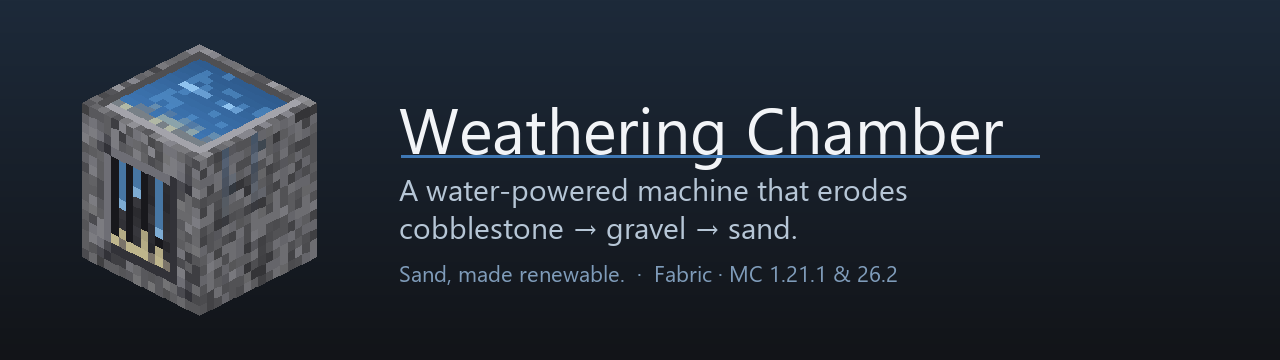
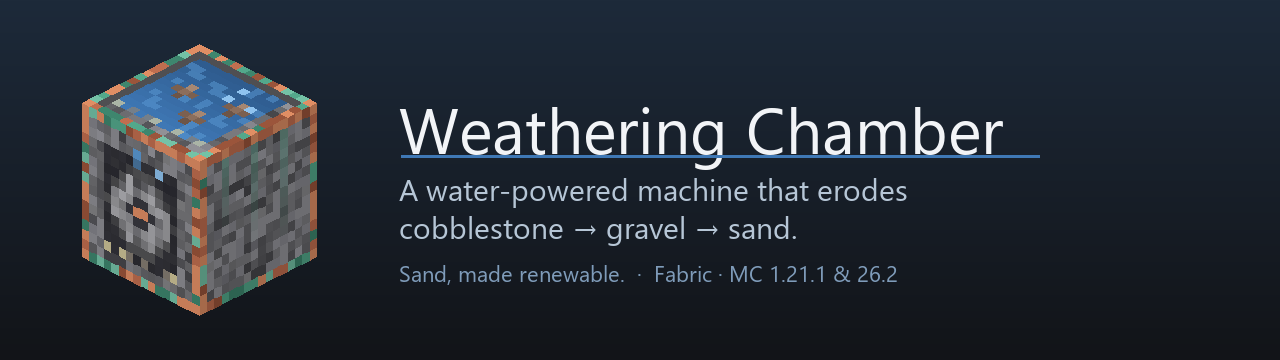
art: align block textures with the recipe ingredients
Retexture the block so each face echoes a crafting material:
- copper frame with verdigris (teal) oxidation on every face -> copper,
  and the literal "weathering" visual
- front aperture becomes a grinding wheel with a copper axle hub -> grindstone
- top water basin gains pointed-dripstone tips -> dripstone (erosion)
- weathered stone base -> cobblestone

Textures + block-containing previews regenerated from tools/generate_assets.py.

Changed region(s): [[0.0625, 0.1222, 0.25, 0.8861]]

diff --git a/tools/generate_assets.py b/tools/generate_assets.py
@@ -42,6 +42,17 @@ IRON = (0x53, 0x53, 0x5a)
 IRON_HI = (0x7d, 0x7d, 0x86)
 IRON_D = (0x39, 0x39, 0x40)
 DARK = (0x1c, 0x1c, 0x20)
+# Recipe-material accents: copper (fresh) weathering to verdigris (oxidised),
+# and dripstone brown. These tie the block to its crafting ingredients.
+COPPER = (0xc0, 0x6e, 0x4f)
+COPPER_D = (0x9b, 0x55, 0x3b)
+COPPER_HI = (0xe0, 0x8e, 0x64)
+VERD = (0x53, 0xa8, 0x8b)
+VERD_D = (0x3e, 0x86, 0x6e)
+VERD_HI = (0x74, 0xc2, 0xa6)
+DRIP = (0x8c, 0x6e, 0x5c)
+DRIP_D = (0x6e, 0x54, 0x45)
+DRIP_HI = (0xa6, 0x87, 0x72)
 
 
 def clamp(v):
@@ -85,31 +96,61 @@ def stone_base(px, rng, darken=0.0):
                 break
 
 
+def copper_tone(rng, oxid):
+    """A copper pixel; with probability `oxid` it has oxidised to verdigris."""
+    if rng.random() < oxid:
+        return (VERD, VERD_D, VERD_HI)[rng.integers(3)]
+    return (COPPER, COPPER_D, COPPER_HI)[rng.integers(3)]
+
+
+def copper_frame(px, rng, oxid_top=0.25, oxid_bottom=0.6):
+    """1px copper border on all four edges, oxidising toward the bottom."""
+    for x in range(16):
+        px[x, 0] = copper_tone(rng, oxid_top) + (255,)
+        px[x, 15] = copper_tone(rng, oxid_bottom) + (255,)
+    for y in range(16):
+        o = oxid_top + (oxid_bottom - oxid_top) * (y / 15)
+        px[0, y] = copper_tone(rng, o) + (255,)
+        px[15, y] = copper_tone(rng, o) + (255,)
+    for (rx, ry) in [(0, 0), (15, 0), (0, 15), (15, 15)]:
+        px[rx, ry] = COPPER_HI + (255,)
+
+
+def verdigris_streaks(px, rng, cols, y_start=1):
+    """Teal oxidation runoff bleeding down onto the stone from the copper."""
+    for x in cols:
+        ln = 5 + int(rng.integers(7))
+        end = min(y_start + ln, 15)
+        for y in range(y_start, end):
+            t = 0.45 * (1 - (y - y_start) / ln)
+            px[x, y] = blend(px[x, y][:3], VERD, t) + (255,)
+        if rng.integers(3) == 0:
+            px[x, min(end, 14)] = VERD_HI + (255,)
+
+
 def tex_side():
     im = new(16, 16)
     px = im.load()
     rng = np.random.default_rng(1001)
     stone_base(px, rng)
-    cols = [2 + int(rng.integers(2)), 7 + int(rng.integers(2)), 12 + int(rng.integers(2))]
-    for x in cols:
-        if rng.integers(4) == 0:
-            continue
-        ln = 6 + int(rng.integers(8))
-        for y in range(ln):
-            base = px[x, y][:3]
-            t = 0.35 * (1.0 - y / ln)
-            px[x, y] = blend(base, WATER, t) + (255,)
-            if rng.integers(3) == 0 and x + 1 < 16:
-                px[x + 1, y] = blend(px[x + 1, y][:3], WATER, t * 0.6) + (255,)
-    for _ in range(3):
-        px[int(rng.integers(16)), 8 + int(rng.integers(8))] = STONE_HI + (255,)
+    copper_frame(px, rng)
+    verdigris_streaks(px, rng, [3, 7, 11], y_start=1)
+    for (rx, ry) in [(0, 5), (0, 10), (15, 5), (15, 10)]:
+        px[rx, ry] = COPPER_HI + (255,)
     return im
 
 
 def tex_bottom():
     im = new(16, 16)
+    px = im.load()
     rng = np.random.default_rng(2002)
-    stone_base(im.load(), rng, darken=0.10)
+    stone_base(px, rng, darken=0.10)
+    # copper corner brackets so the housing reads as copper-clad from below too
+    for (cx, cy, dx, dy) in [(0, 0, 1, 1), (15, 0, -1, 1), (0, 15, 1, -1), (15, 15, -1, -1)]:
+        for k in range(3):
+            px[cx, cy + dy * k] = copper_tone(rng, 0.5) + (255,)
+            px[cx + dx * k, cy] = copper_tone(rng, 0.5) + (255,)
+        px[cx, cy] = COPPER_HI + (255,)
     return im
 
 
@@ -118,13 +159,14 @@ def tex_top():
     px = im.load()
     rng = np.random.default_rng(3003)
     stone_base(px, rng, darken=0.02)
+    copper_frame(px, rng, oxid_top=0.45, oxid_bottom=0.5)  # wet rim, well oxidised
     x0, y0, x1, y1 = 2, 2, 13, 13
+    # dark inner bevel just inside the copper rim
     for x in range(x0 - 1, x1 + 2):
         px[x, y0 - 1] = shade((0x6a, 0x6a, 0x6e), -0.25) + (255,)
-        px[x, y1 + 1] = STONE_HI + (255,)
     for y in range(y0 - 1, y1 + 2):
         px[x0 - 1, y] = shade((0x6a, 0x6a, 0x6e), -0.25) + (255,)
-        px[x1 + 1, y] = STONE_HI + (255,)
+    # water fill
     for y in range(y0, y1 + 1):
         for x in range(x0, x1 + 1):
             dy = (y - y0) / (y1 - y0)
@@ -132,18 +174,20 @@ def tex_top():
             if rng.integers(5) == 0:
                 c = blend(c, WATER_L, 0.5)
             px[x, y] = c + (255,)
+    # pointed dripstone tips poking up through the water (erosion motif)
+    for (sx, sy) in [(5, 6), (9, 9), (11, 5)]:
+        px[sx, sy] = DRIP_HI + (255,)
+        for (ox, oy, sh) in [(0, 1, 0.0), (-1, 1, -0.12), (1, 1, -0.12), (0, 2, -0.22)]:
+            xx, yy = sx + ox, sy + oy
+            if x0 <= xx <= x1 and y0 <= yy <= y1:
+                px[xx, yy] = shade(DRIP, sh) + (255,)
+    # sediment along the near edge + surface ripples
     for x in range(x0, x1 + 1):
-        h = 1 + int(rng.integers(3))
-        for k in range(h):
-            y = y1 - k
+        if rng.integers(2) == 0:
             c = SAND if rng.integers(2) == 0 else GRAVEL
-            px[x, y] = blend(c, WATER, 0.25 * (k + 1)) + (255,)
-    for _ in range(4):
-        x = x0 + 1 + int(rng.integers(x1 - x0 - 1))
-        y = y0 + 1 + int(rng.integers(4))
-        px[x, y] = WATER_HI + (255,)
-        if x + 1 <= x1:
-            px[x + 1, y] = blend(WATER, WATER_HI, 0.5) + (255,)
+            px[x, y1] = blend(c, WATER, 0.3) + (255,)
+    for _ in range(3):
+        px[x0 + 1 + int(rng.integers(x1 - x0 - 1)), y0 + 1 + int(rng.integers(3))] = WATER_HI + (255,)
     return im
 
 
@@ -152,38 +196,53 @@ def tex_front():
     px = im.load()
     rng = np.random.default_rng(4004)
     stone_base(px, rng, darken=0.04)
-    x0, y0, x1, y1 = 4, 4, 11, 12
-    for x in range(x0 - 1, x1 + 2):
-        px[x, y0 - 1] = IRON_HI + (255,)
-        px[x, y1 + 1] = IRON_D + (255,)
-    for y in range(y0 - 1, y1 + 2):
-        px[x0 - 1, y] = IRON_HI + (255,)
-        px[x1 + 1, y] = IRON_D + (255,)
-    for y in range(y0, y1 + 1):
-        for x in range(x0, x1 + 1):
-            px[x, y] = DARK + (255,)
-    for x in range(x0 + 1, x1 + 1, 2):
-        for y in range(y0, y1 + 1):
-            px[x, y] = blend(IRON, DARK, 0.3 + 0.4 * rng.random()) + (255,)
-    for _ in range(3):
-        x = x0 + 1 + int(rng.integers(x1 - x0 - 1))
-        ln = 2 + int(rng.integers(4))
-        yy = y0
-        for yy in range(y0, min(y0 + ln, y1 + 1)):
-            px[x, yy] = blend(WATER_L, DARK, 0.15) + (255,)
-        if yy + 1 <= y1:
-            px[x, yy + 1] = WATER_HI + (255,)
-    for x in range(x0, x1 + 1):
-        h = 1 if x in (x0, x1) else 1 + int(rng.integers(3))
-        for k in range(h):
-            y = y1 - k
+    copper_frame(px, rng, oxid_top=0.2, oxid_bottom=0.55)
+    # recessed dark housing behind the wheel (dark stone, not pure black, so the
+    # lighter grindstone disc reads against it)
+    house = (0x2b, 0x2b, 0x31)
+    for y in range(3, 14):
+        for x in range(3, 13):
+            px[x, y] = shade(house, 0.06 * rng.random()) + (255,)
+    cx, cy, r = 7.5, 8.0, 4.6
+    wheel = [(0x9b, 0x9b, 0x9f), (0xa9, 0xa9, 0xad), (0x8d, 0x8d, 0x92), (0xb2, 0xb2, 0xb6)]
+
+    def dist(x, y):
+        return ((x - cx) ** 2 + (y - cy) ** 2) ** 0.5
+
+    # grinding-wheel disc: light stone, dark outer rim to define the circle,
+    # plus a concentric groove
+    for y in range(16):
+        for x in range(16):
+            d = dist(x, y)
+            if d <= r:
+                c = wheel[rng.integers(len(wheel))]
+                if d >= r - 0.9:
+                    c = shade(c, -0.5)
+                elif 2.7 <= d <= 3.3:
+                    c = shade(c, -0.28)
+                px[x, y] = c + (255,)
+    # four spokes
+    for k in range(-4, 5):
+        for (xx, yy) in [(int(cx + k), int(cy)), (int(cx), int(cy + k))]:
+            if dist(xx, yy) <= r - 1.2:
+                px[xx, yy] = shade(px[xx, yy][:3], -0.22) + (255,)
+    # iron hub + copper axle at the centre
+    for y in range(16):
+        for x in range(16):
+            d = dist(x, y)
+            if d <= 1.5:
+                px[x, y] = IRON_D + (255,)
+            if d <= 0.9:
+                px[x, y] = COPPER_HI + (255,)
+    # a subtle water drip from the top lip onto the wheel
+    px[7, 2] = WATER_L + (255,)
+    px[7, 3] = blend(WATER_L, house, 0.3) + (255,)
+    px[10, 3] = WATER_HI + (255,)
+    # sediment collecting at the base of the housing
+    for x in range(3, 13):
+        if rng.integers(2) == 0:
             c = GRAVEL if rng.integers(3) == 0 else SAND
-            px[x, y] = shade(c, -0.05 * k) + (255,)
-    for (rx, ry) in [(2, 2), (13, 2), (2, 13), (13, 13)]:
-        px[rx, ry] = IRON_HI + (255,)
-        px[rx + 1, ry + 1] = IRON_D + (255,)
-        px[rx, ry + 1] = IRON + (255,)
-        px[rx + 1, ry] = IRON + (255,)
+            px[x, 13] = shade(c, -0.05) + (255,)
     return im
 
 
